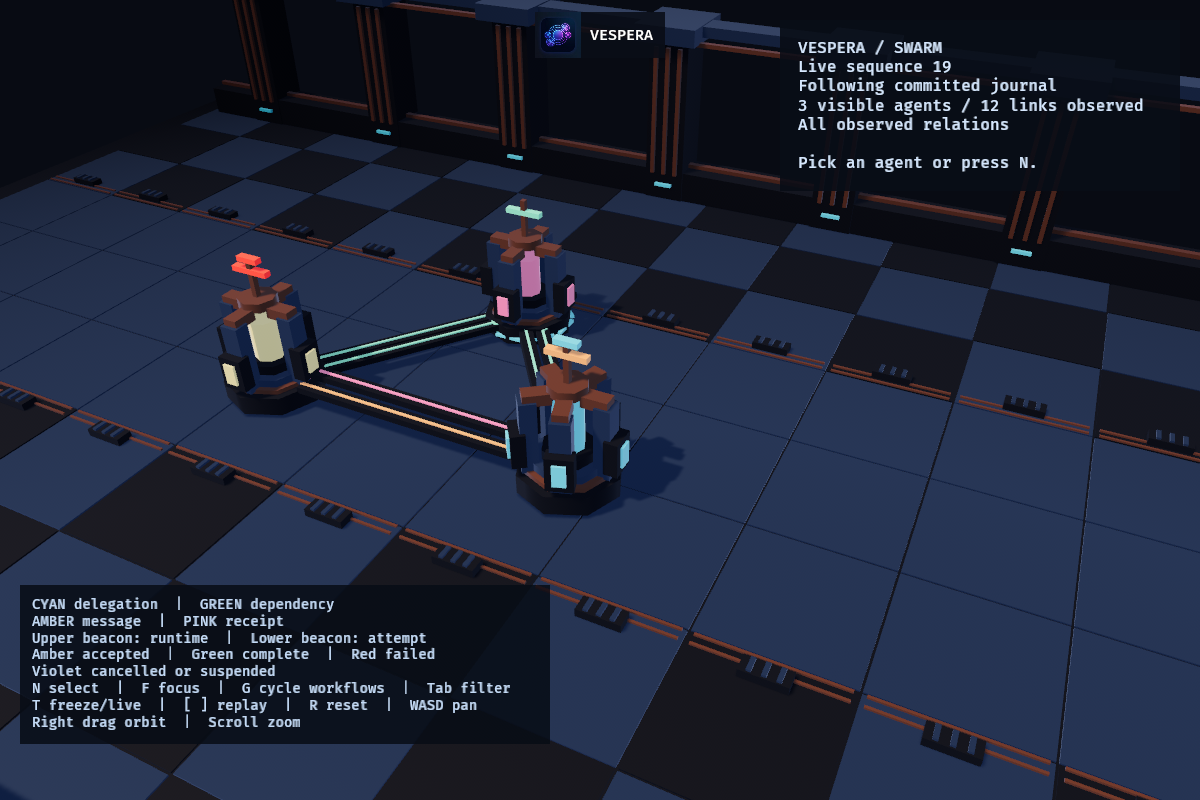
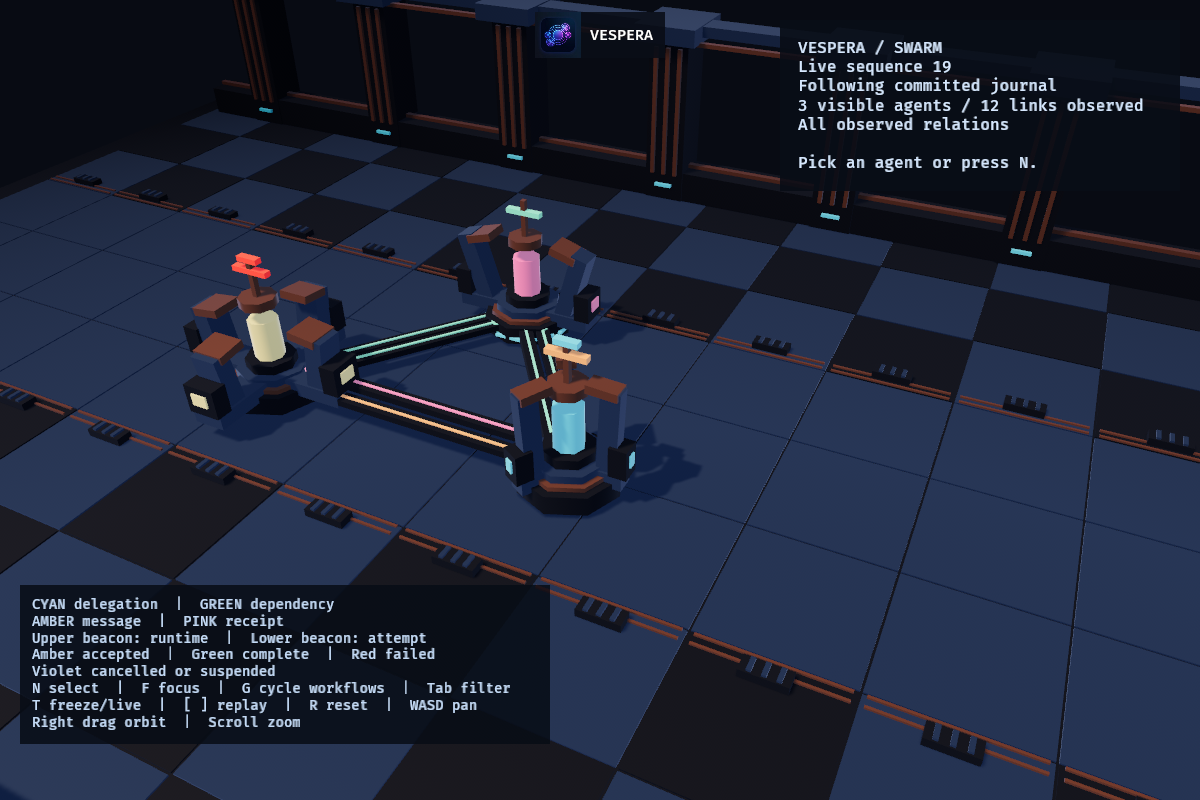
Give Swarm agents distinct stable foundry silhouettes

Changed region(s): [[0.1542, 0.3438, 0.3083, 0.5312], [0.4008, 0.4375, 0.555, 0.625], [0.37, 0.2812, 0.555, 0.4062]]

diff --git a/crates/vespera-view/src/swarm_art.rs b/crates/vespera-view/src/swarm_art.rs
@@ -286,7 +286,13 @@ impl Foundry {
             hash.wrapping_mul(31).wrapping_add(u32::from(byte))
         });
         let sigil = &self.sigils[(signature % 6) as usize];
-        let wings = 3 + (signature / 6 % 3) as usize;
+        // Narrow heat sinks, a split gantry, and a wide radiator bank give the
+        // shared foundry chassis different silhouettes without relying on color.
+        let (wings, reach, rise, width, flare) = match signature % 3 {
+            0 => (3, 0.78, 1.04, 0.20, 0.05),
+            1 => (2, 1.13, 0.88, 0.37, 0.29),
+            _ => (4, 1.32, 0.62, 0.43, 0.13),
+        };
         let height = 1.30 + (signature / 18 % 4) as f32 * 0.17;
         let stem_base = height + 0.20;
         self.part(
@@ -320,13 +326,13 @@ impl Foundry {
         }
         for wing in 0..wings {
             let turn = Quat::from_rotation_y(wing as f32 * std::f32::consts::TAU / wings as f32);
-            let part = |commands: &mut Commands, material, x, y, scale| {
+            let part = |commands: &mut Commands, material, x, y, tilt: f32, scale| {
                 self.part(
                     commands,
                     parent,
                     material,
                     Transform::from_translation(turn * Vec3::new(x, y, 0.0))
-                        .with_rotation(turn)
+                        .with_rotation(turn * Quat::from_rotation_z(-tilt))
                         .with_scale(scale),
                     false,
                     true,
@@ -335,24 +341,42 @@ impl Foundry {
             part(
                 commands,
                 &self.alloy,
-                0.55,
-                height * 0.64,
-                Vec3::new(0.24, height * 0.76, 0.29),
+                reach * 0.63,
+                0.37,
+                0.0,
+                Vec3::new(reach * 0.88, 0.23, width + 0.08),
+            );
+            part(
+                commands,
+                &self.alloy,
+                reach * 0.79,
+                height * (0.43 + rise * 0.25),
+                flare,
+                Vec3::new(0.29, height * rise, width),
             );
             part(
                 commands,
                 &self.obsidian,
+                reach,
                 0.70,
-                0.78,
-                Vec3::new(0.21, 0.53, 0.39),
+                0.0,
+                Vec3::new(0.27, 0.47, width + 0.10),
             );
-            part(commands, sigil, 0.82, 0.79, Vec3::new(0.045, 0.33, 0.19));
+            part(
+                commands,
+                sigil,
+                reach + 0.14,
+                0.73,
+                0.0,
+                Vec3::new(0.045, 0.19, width * 0.62),
+            );
             part(
                 commands,
                 &self.trim,
-                0.42,
-                height + 0.05,
-                Vec3::new(0.39, 0.17, 0.22),
+                reach * 0.69,
+                height * (0.43 + rise * 0.73),
+                flare,
+                Vec3::new(0.46, 0.13, width + 0.07),
             );
         }
     }

diff --git a/docs/DEVELOPMENT_LOG.md b/docs/DEVELOPMENT_LOG.md
@@ -1,5 +1,11 @@
 # Development log
 
+## 2026-11-09 — Distinct agent silhouettes in the Swarm Foundry
+
+Agent UUIDs now select narrow heat sinks, a split gantry, or a wide radiator bank. The chassis can be distinguished by shape as well as accent color, and the profile remains stable when the agent changes models. Native Windows overview and close-up captures show the three-agent fixture at sequences 19 and 20. The close-up caught the newly committed fixture message in transit. The README uses both captures and identifies their synthetic source.
+
+The revised debug build measured 8.58 ms median, 9.47 ms p95, and 11.18 ms maximum across 600 Vulkan updates after 120 warmup updates at 1200×800 on the RTX 4070 Laptop GPU. This sample used neither screenshot capture nor concurrent inference. The earlier concurrent inference result applies to the preceding art revision. The Windows graphics build, 43 default tests, formatting, and strict Clippy passed.
+
 ## 2026-11-09 — GitHub release asset download rehearsal
 
 The Windows updater downloaded a pinned 66,850,032-byte Git for Windows fixture through GitHub's `release-assets.githubusercontent.com` redirect. The production downloader verified its published size, SHA-256, and embedded Authenticode signature. Dropping the verified handle removed the staged file without executing it. The opt-in test passed, as did all 43 default Windows graphics tests, formatting, and strict Clippy. The Git for Windows fixture covers the delivery path only. Vespera still needs its own signed, immutable release for a production upgrade rehearsal. [Fixture release and published SHA-256](https://github.com/git-for-windows/git/releases/tag/v2.56.0.windows.4)

diff --git a/README.md b/README.md
@@ -58,7 +58,7 @@ An agent keeps its identity when you change its model. The registry records whic
 <details>
 <summary>Explore three agents in the Swarm Foundry</summary>
 
-![Native Swarm Foundry overview showing three agent constructs and colored evidence conduits](assets/screenshots/swarm-foundry.png)
+![Native Swarm Foundry overview showing three distinct agent silhouettes and colored evidence conduits](assets/screenshots/swarm-foundry.png)
 
 ![Swarm close-up showing an amber message transit and its matching observation in the inspector](assets/screenshots/swarm-transit.png)
 
